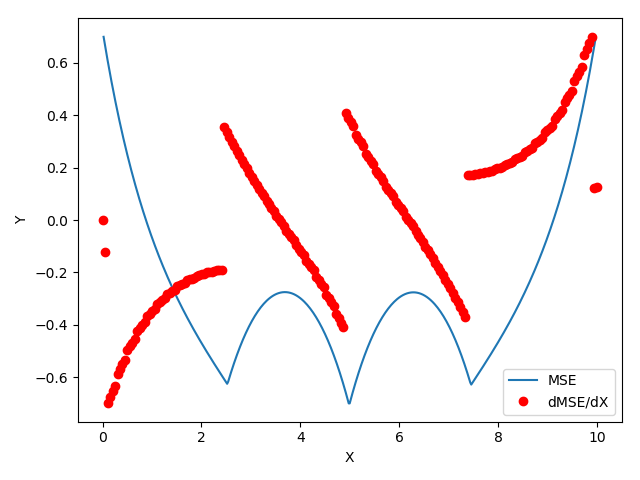
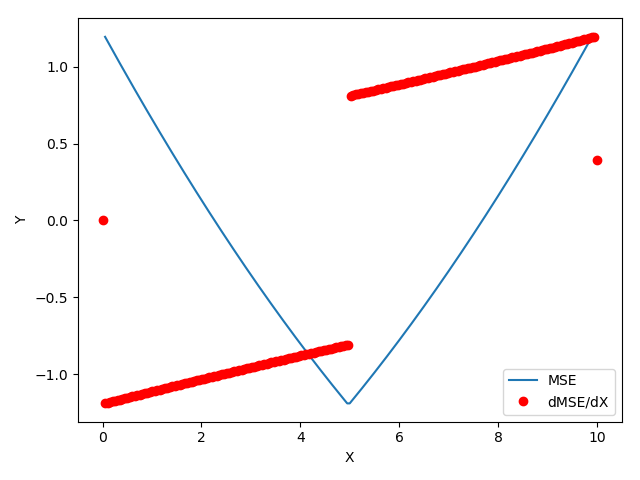
got my inverse gauss wrong

diff --git a/ControlSystemSimulationOverride.py b/ControlSystemSimulationOverride.py
@@ -1,5 +1,5 @@
 from skfuzzy.control.controlsystem import ControlSystemSimulation, CrispValueCalculator
-from misc_functions import interp_membership, defuzz, interp_universe_fast, centroid, gaussian
+from misc_functions import interp_membership, defuzz, interp_universe_fast, centroid, gaussian, inverse_gaussian
 import numpy as np
 
 
@@ -141,7 +141,7 @@ class CrispValueCalculatorOverride(CrispValueCalculator):
             # term.mf - y's values
             # term._cut - particular y value for area under
             if self.analysis_function == 'gauss':
-                new_values.append(gaussian(term._cut, self.analysis_params.get('mean'), self.analysis_params.get('sigma')))
+                new_values.append(inverse_gaussian(term._cut, self.analysis_params.get('mean'), self.analysis_params.get('sigma')))
         new_universe = np.union1d(self.var.universe, new_values)
         # Initialize membership
         output_mf = np.zeros_like(new_universe, dtype=np.float64)

diff --git a/misc_functions.py b/misc_functions.py
@@ -72,6 +72,13 @@ def gaussian(x, mean, sigma):
     return np.multiply(constant, agnp.exp(exponent))
 
 
+def inverse_gaussian(y, mean, sigma):
+    sqrt_2pi = np.sqrt(np.multiply(2, np.pi))
+    log_y = agnp.log(np.multiply(y, sqrt_2pi))
+    ln_calc = agnp.sqrt(np.multiply(-2, log_y))
+    return np.add(np.multiply(sigma, ln_calc), mean)
+
+
 def defuzz(x, mfx, mode):
     """
     Defuzzification of a membership function, returning a defuzzified value

diff --git a/FuzzySystem.py b/FuzzySystem.py
@@ -19,7 +19,7 @@ class FuzzySystem(object):
         self.tol_y = None
         self.x_antecedent = None
         self.y_consequent = None
-        self.granularity = 50
+        self.granularity = 200
         self.control = None
         self.rules = []
         self.control_simulation = None
